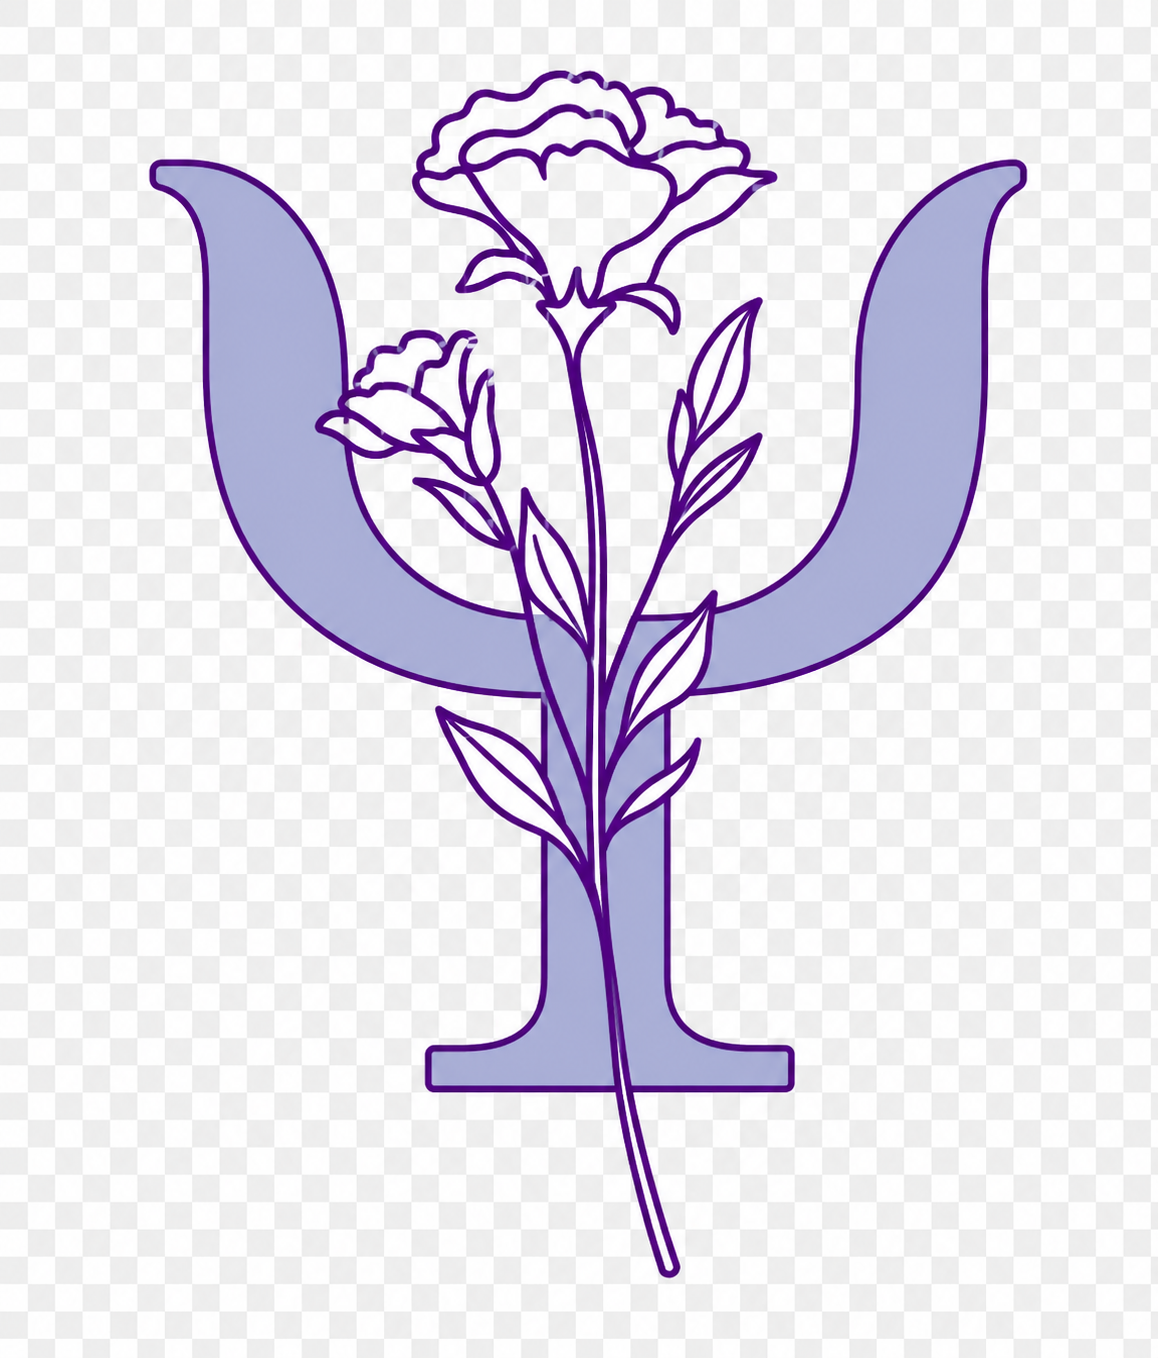
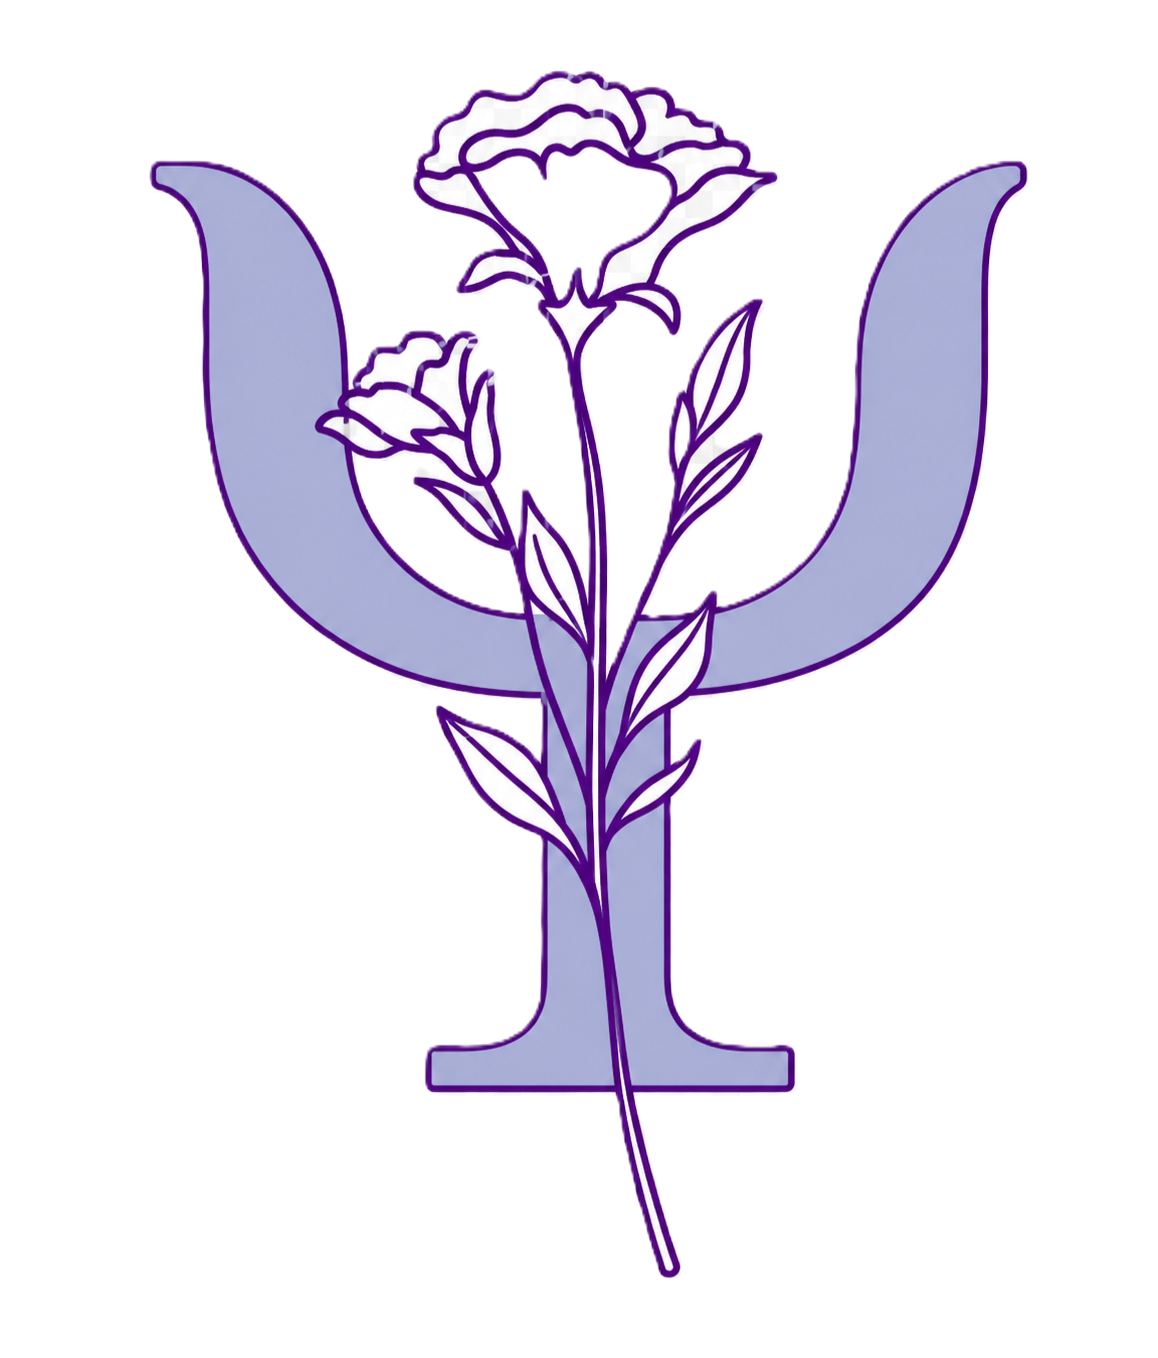
Arreglo inicio

diff --git a/index.html b/index.html
@@ -39,7 +39,7 @@
           <p class="lead">Soy la Psicóloga Mileidy García. Brindo atención psicológica con un enfoque cognitivo-conductual y humanista, adaptado a tus necesidades y a tu proceso personal.</p>
           <div class="actions"><a class="button" href="contacto.html#cita">Solicitar información</a><a class="button secondary" href="atencion.html">Conocer la atención</a></div>
         </div>
-        <div class="portrait"><img src="Imagenes/icono.png" alt="Ilustración representativa del consultorio de la Psicóloga Mileidy García"></div>
+        <div class="portrait"><img src="Imagenes/contenido.png" alt="Ilustración representativa del consultorio de la Psicóloga Mileidy García"></div>
       </div>
     </section>
     <section class="section presentation">
